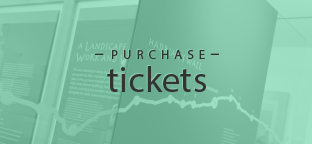
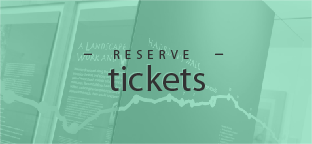
Enable share buttons, began linking actions

diff --git a/wp-content/themes/connecting-lights/css/main.less b/wp-content/themes/connecting-lights/css/main.less
@@ -36,17 +36,15 @@ h1 {
 	text-transform: uppercase;
 }
 h2 {
-	.garaje;
+	.brandon-grotesque;
 	color: @base;
 	font-size: 36px;
 	line-height: 1em;
-	text-transform: uppercase;
 }
 h3 {
 	.brandon-grotesque;
 	font-size: 27px;
 	line-height: 1em;
-	text-transform: uppercase;
 }
 h4 {
 	font-size: 65px;
@@ -178,7 +176,7 @@ nav {
 	.border {
 		position: absolute;
 		top: 0; left: 0; right: 0; bottom: 0;
-		border: 1px solid rgba(255,255,255,0.2);
+		border: 1px solid rgba(255,255,255,0.0);
 		z-index: 1;
 	}
 
@@ -345,6 +343,11 @@ nav {
 	h2 {
 		font-size: 28px;
 		font-weight: 500;
+	}
+
+	h3 {
+		margin-top: 20px;
+		color: @accent;
 	}
 
 	p {
@@ -674,7 +677,7 @@ article {
 	.clear;
 	font-size: 14px;
 	line-height: 18px;
-	padding: 18px 0 132px;
+	padding: 18px 0 102px;
 	color: @article-copy;
 	border-top: 1px solid @accent;
 

diff --git a/wp-content/themes/connecting-lights/header.php b/wp-content/themes/connecting-lights/header.php
@@ -14,13 +14,13 @@
 	<!-- TypeKit -->
 	<script src="//use.typekit.net/lla2izs.js"></script>
 	<script>try{Typekit.load();}catch(e){}</script>
+	
+	<!-- Facebook -->
+	<script src='http://connect.facebook.net/en_US/all.js'></script>
 
 	<link rel="stylesheet" href="<?php bloginfo("stylesheet_url"); ?>" type="text/css"/>
 	<link rel="stylesheet" href="<?php bloginfo("template_url"); ?>/css/webfonts/ss-social.css" type="text/css"/>
 	<link rel="stylesheet/less" type="text/css" href="<?php bloginfo("template_url"); ?>/css/main.less" />
-
-	<link rel="icon" href="<?php bloginfo("template_url"); ?>/img/favicon.png" /> 
-	<link rel="shortcut icon" href="<?php bloginfo("template_url"); ?>/img/favicon.png" />
 
 	<meta name="viewport" content="width=device-width; initial-scale=1" />
 
@@ -40,7 +40,28 @@
 	</script>
 	
 	<script>
-		$(document).ready(
+	
+		/*FB.init({appId: "395149550542429", status: true, cookie: true});
+		
+		function postToFeed() {
+		
+			// calling the API ...
+		  	var obj = {
+		    	method: 'feed',
+		    	link: 'http://connectinglight.info/',
+		    	picture: 'http://connectinglight.info/wp-content/themes/connecting-lights/img/logo.png',
+		    	name: 'Connecting Light',
+		    	caption: 'Connecting Light',
+		    	description: 'Connecting Light - a 70-mile long digital art installation along Hadrian\'s Wall.'
+			};
+		
+		 	function callback(response) {
+		  	}
+		
+		  	FB.ui(obj, callback);
+		}*/
+	
+		$(document).ready(function() {
   			$('.popup').click(function(event) {
   			  var width  = 575,
   			      height = 400,
@@ -53,11 +74,11 @@
   			               ',top='    + top    +
   			               ',left='   + left;
   			  
-  			  window.open(url, 'twitter', opts);
+  			  window.open(url, $(this).data("site-name"), opts);
   			
   			  return false;
   			});
-  		);
+  		});
 	</script>
 
 </head>
@@ -85,10 +106,34 @@
 		</div>
 		
 		<div class="connect">
-			<a href="" class="ss-icon">Facebook</a>
-			<a class="twitter popup ss-icon" href="http://twitter.com/share?text=This%20is%20so%20easy">Twitter</a>
-			<a href="" class="ss-icon">Tumblr</a>
-			<a href="" class="ss-icon">Pinterest</a>
+		
+			<a 	title="Share on Facebook"
+				href="https://www.facebook.com/dialog/feed?
+  					app_id=395149550542429&
+  					link=http://connectinglight.info&
+					picture=http://connectinglight.info/wp-content/uploads/2012/08/wall_illustration-small-2.jpeg&
+  					name=Connecting%20Light&
+  					caption=Connecting%20Light&
+  					description=Connecting%20Light%20-%20a%20seventy%20mile%20long%20digital%20art%20installation%20along%20Hadrian's%20Wall%20World%20Heritage%20Site.&
+  					redirect_uri=http://connectinglight.info" 
+				class="ss-icon">Facebook</a>
+				
+			<a 	title="Share on Twitter" 
+				class="popup ss-icon" 
+				href="http://twitter.com/share?text=Connecting%20Light%20-%20a%20seventy%20mile%20long%20digital%20art%20installation%20along%20Hadrian's%20Wall%20World%20Heritage%20Site." 
+				data-site-name="twitter">Twitter</a>
+				
+			<a title="Share on Tumblr" 
+				href="http://www.tumblr.com/share/photo?
+					source=http://connectinglight.info/wp-content/uploads/2012/08/wall_illustration-small-2.jpeg&
+					caption=Connecting%20Light%20-%20a%20seventy%20mile%20long%20digital%20art%20installation%20along%20Hadrian's%20Wall%20World%20Heritage%20Site.&
+					click_thru=http://connectinglight.info"
+				class="ss-icon">Tumblr</a>
+				
+			<a 	title="Share on Pinterest" 
+				href="javascript:void((function()%7Bvar%20e=document.createElement(&apos;script&apos;);e.setAttribute(&apos;type&apos;,&apos;text/javascript&apos;);e.setAttribute(&apos;charset&apos;,&apos;UTF-8&apos;);e.setAttribute(&apos;src&apos;,&apos;http://assets.pinterest.com/js/pinmarklet.js?r=&apos;+Math.random()*99999999);document.body.appendChild(e)%7D)());"
+				class="ss-icon">Pinterest</a>
+				
 		</div>
 
 	</header><!-- end main header -->

diff --git a/wp-content/themes/connecting-lights/incl/actions.php b/wp-content/themes/connecting-lights/incl/actions.php
@@ -7,7 +7,7 @@
 	});
 </script>
 <div class="actions">
-	<a href="#" id="send-message-trigger"><img src="<?php bloginfo("template_url"); ?>/img/biglink_sendamsg.png" alt="Send a Message" /></a>
-	<a href=""><img src="<?php bloginfo("template_url"); ?>/img/biglink_purchasetix.png" alt="Purchase Tickets" /></a>
-	<a href=""><img src="<?php bloginfo("template_url"); ?>/img/biglink_findlocs.png" alt="Find Locations" /></a>
+	<a href="/backendLive/question/question2.php" id="send-message-trigger"><img src="<?php bloginfo("template_url"); ?>/img/biglink_sendamsg.png" alt="Send a Message" /></a>
+	<a href="/visit"><img src="<?php bloginfo("template_url"); ?>/img/biglink_purchasetix.png" alt="Purchase Tickets" /></a>
+	<a href="/visit"><img src="<?php bloginfo("template_url"); ?>/img/biglink_findlocs.png" alt="Find Locations" /></a>
 </div>
